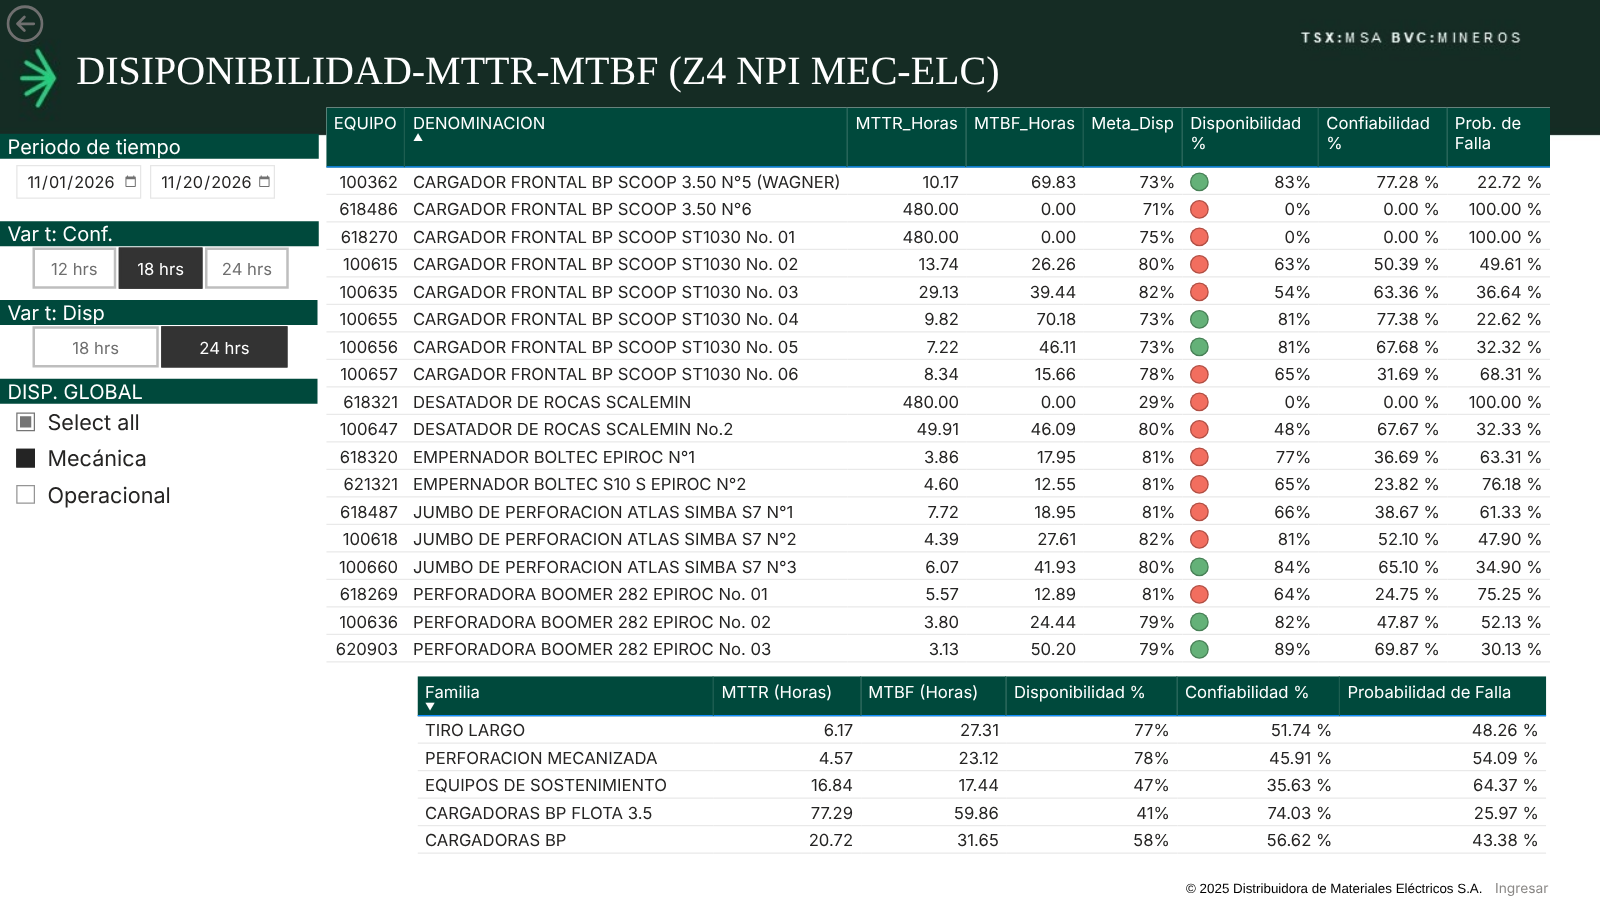
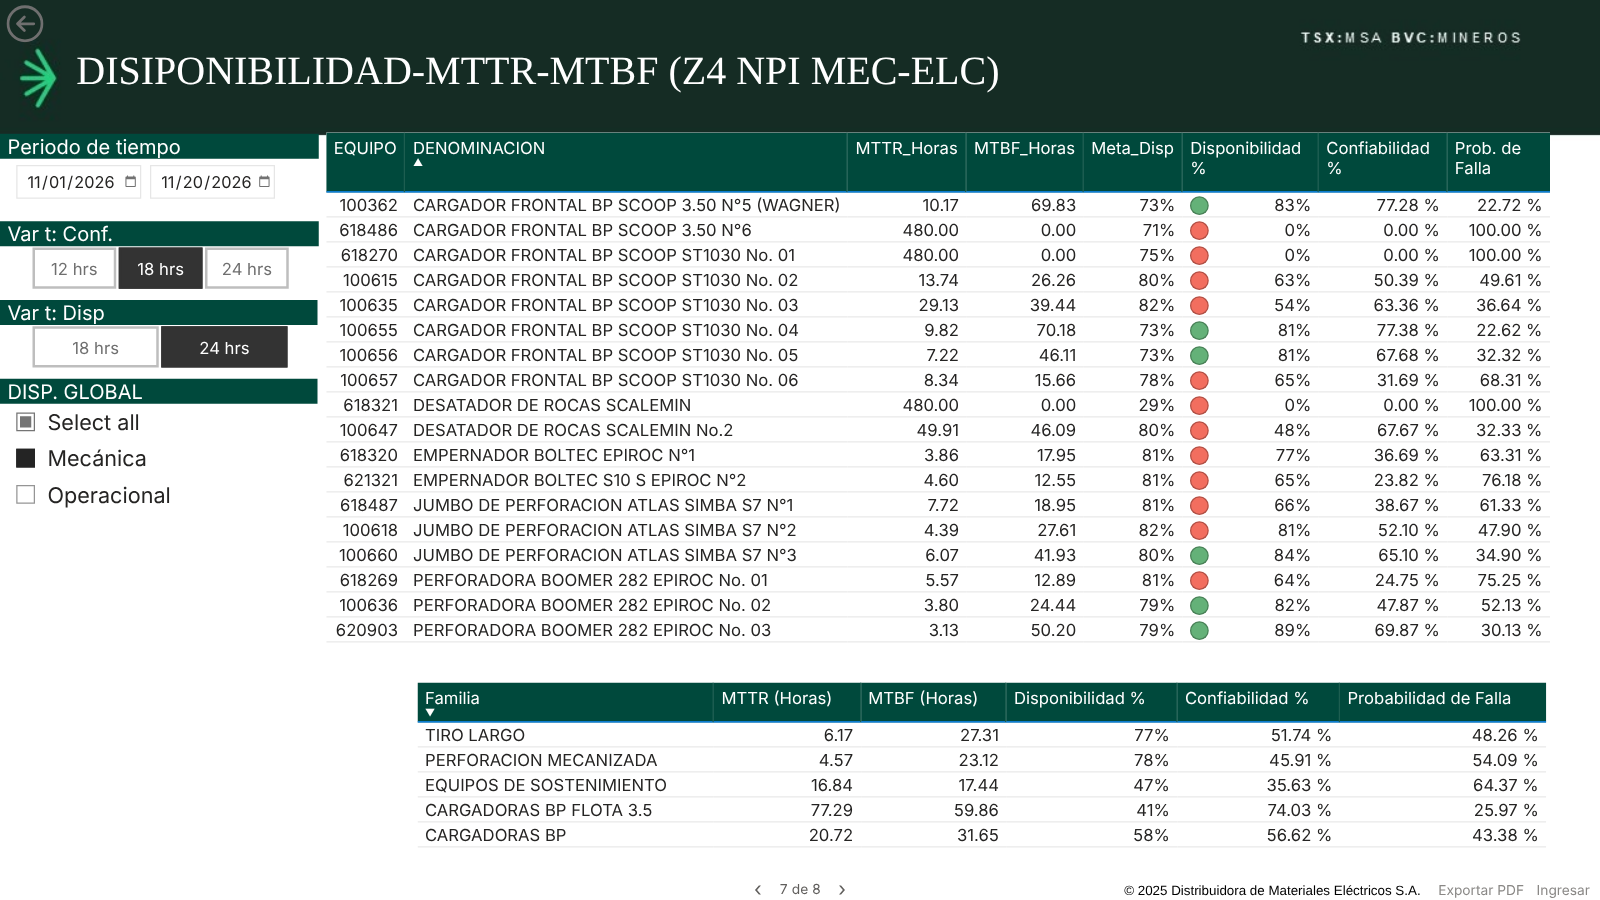
Nombres cortos de equipo en gráficos y tablas de paros, navegador entre páginas y PDF sin barras de desplazamiento
Claude-Session: https://claude.ai/code/session_01S28EfKDVFyr1ZrtpkDQrVX

diff --git a/src/components/NavegadorPaginas.tsx b/src/components/NavegadorPaginas.tsx
@@ -1,0 +1,84 @@
+// Navegador de páginas como el de Power BI: "‹  2 de 8  ›". Navega con react-router (sin recargar), así
+// los filtros compartidos se conservan. Con las flechas del teclado también se cambia de página, salvo
+// cuando el foco está en un campo de texto, fecha o lista.
+
+import { useContext, useEffect } from "react";
+import { useLocation, useNavigate } from "react-router-dom";
+import { CtxForzarLienzo, posicion, useModoPagina } from "./LienzoPbi";
+import { indicePagina, ORDEN_PAGINAS } from "../pages/ordenPaginas";
+import type { Rect } from "../pages/disenos";
+
+interface Props {
+  /** Caja en el lienzo: centrada en la página, a la altura del pie (y = arriba, h = alto). */
+  y?: number;
+  h?: number;
+  /** Texto claro, para fondos oscuros (Portada). */
+  claro?: boolean;
+  /** Fuerza el modo lienzo cuando la página no usa el proveedor de modo (la Portada). */
+  enLienzo?: boolean;
+}
+
+const ANCHO_LIENZO = 1280;
+const ANCHO_NAV = 160;
+
+function esCampoEditable(el: EventTarget | null): boolean {
+  if (!(el instanceof HTMLElement)) return false;
+  return el.isContentEditable || ["INPUT", "TEXTAREA", "SELECT"].includes(el.tagName);
+}
+
+export default function NavegadorPaginas({ y = 674, h = 16, claro, enLienzo }: Props) {
+  const modo = useModoPagina();
+  const lienzo = enLienzo ?? modo === "lienzo";
+  const forzado = useContext(CtxForzarLienzo); // exportación a PDF: oculto por CSS y sin teclado
+  const { pathname } = useLocation();
+  const navigate = useNavigate();
+  const i = indicePagina(pathname);
+  const anterior = i > 0 ? ORDEN_PAGINAS[i - 1] : null;
+  const siguiente = i >= 0 && i < ORDEN_PAGINAS.length - 1 ? ORDEN_PAGINAS[i + 1] : null;
+
+  useEffect(() => {
+    if (forzado) return;
+    const alTeclear = (e: KeyboardEvent) => {
+      if (e.defaultPrevented || e.altKey || e.ctrlKey || e.metaKey || e.shiftKey) return;
+      if (esCampoEditable(e.target)) return;
+      const destino = e.key === "ArrowLeft" ? anterior : e.key === "ArrowRight" ? siguiente : null;
+      if (!destino) return;
+      e.preventDefault();
+      navigate(destino.ruta);
+    };
+    window.addEventListener("keydown", alTeclear);
+    return () => window.removeEventListener("keydown", alTeclear);
+  }, [forzado, anterior, siguiente, navigate]);
+
+  if (i < 0) return null;
+
+  const caja: Rect = { x: (ANCHO_LIENZO - ANCHO_NAV) / 2, y, w: ANCHO_NAV, h };
+  const clases = ["nav-paginas", lienzo ? "lienzo-nav" : "", claro ? "nav-paginas-claro" : ""].filter(Boolean).join(" ");
+  return (
+    <nav className={clases} aria-label="Navegador de páginas" style={lienzo ? posicion(caja) : undefined}>
+      <button
+        type="button"
+        className="nav-paginas-boton"
+        aria-label="Página anterior"
+        title={anterior ? anterior.titulo : undefined}
+        disabled={!anterior}
+        onClick={() => anterior && navigate(anterior.ruta)}
+      >
+        ‹
+      </button>
+      <span className="nav-paginas-texto" aria-live="polite">
+        {i + 1} de {ORDEN_PAGINAS.length}
+      </span>
+      <button
+        type="button"
+        className="nav-paginas-boton"
+        aria-label="Página siguiente"
+        title={siguiente ? siguiente.titulo : undefined}
+        disabled={!siguiente}
+        onClick={() => siguiente && navigate(siguiente.ruta)}
+      >
+        ›
+      </button>
+    </nav>
+  );
+}

diff --git a/src/components/lienzo.css b/src/components/lienzo.css
@@ -209,11 +209,12 @@
 .lienzo .tabla-pbi th:last-child { border-right: 0; }
 .lienzo .tabla-resumen td:nth-child(2) { white-space: nowrap; }
 /* Tabla de paros: anchos fijos que suman el ancho de la caja (1268 px), así no hay barra horizontal.
-   Equipo y Descripción parten en dos líneas cuando no caben; Hrs Paro Ventana tiene ancho para
-   que su título quede en dos líneas ("Hrs Paro" / "Ventana"). */
+   Equipo va en una sola línea: 192 px = nombre corto más largo ("SCOOP 3.50 N°5 (WAGNER)", 178.2 px a
+   13.33px) + 12 px de relleno. Descripción toma el resto y parte en dos líneas cuando no cabe; Hrs Paro
+   Ventana tiene ancho para que su título quede en dos líneas ("Hrs Paro" / "Ventana"). */
 .lienzo .tabla-paros table { table-layout: fixed; width: 100%; }
 .lienzo .tabla-paros th:nth-child(1) { width: 62px; }
-.lienzo .tabla-paros th:nth-child(2) { width: 320px; }
+.lienzo .tabla-paros th:nth-child(2) { width: 192px; }
 .lienzo .tabla-paros th:nth-child(3) { width: 88px; }
 .lienzo .tabla-paros th:nth-child(4) { width: auto; }
 .lienzo .tabla-paros th:nth-child(5) { width: 164px; }
@@ -221,7 +222,7 @@
 .lienzo .tabla-paros th:nth-child(7) { width: 78px; }
 .lienzo .tabla-paros th:nth-child(8) { width: 104px; }
 .lienzo .tabla-paros th:nth-child(9) { width: 108px; }
-.lienzo .tabla-paros td:nth-child(1), .lienzo .tabla-paros td:nth-child(3),
+.lienzo .tabla-paros td:nth-child(1), .lienzo .tabla-paros td:nth-child(2), .lienzo .tabla-paros td:nth-child(3),
 .lienzo .tabla-paros td:nth-child(5), .lienzo .tabla-paros td:nth-child(6),
 .lienzo .tabla-paros td:nth-child(7), .lienzo .tabla-paros td:nth-child(8),
 .lienzo .tabla-paros td:nth-child(9) { white-space: nowrap; }
@@ -320,4 +321,15 @@
 .exportando-pdf .lienzo-volver,
 .exportando-pdf .guardado-periodo,
 .exportando-pdf .lienzo-enlaces,
+.exportando-pdf .nav-paginas,
 .exportando-pdf .portada-enlaces { display: none !important; }
+/* En el PDF las tablas no dibujan barras de desplazamiento: salen las filas que caben en su caja. */
+.exportando-pdf .tabla-pbi,
+.exportando-pdf .paneles-rejilla { overflow: hidden !important; }
+
+/* ---------- Navegador de páginas ("‹  2 de 8  ›") ---------- */
+/* Centrado en el lienzo, en la franja del pie (el texto y los enlaces del pie van pegados a la derecha). */
+.lienzo .lienzo-nav { position: absolute; justify-content: center; font-family: var(--pbi-fuente); font-size: 11px; line-height: 16px; }
+.lienzo-nav .nav-paginas-boton { font-size: 16px; }
+.lienzo .nav-paginas-claro { color: rgba(255, 255, 255, 0.55); }
+.lienzo .nav-paginas-claro .nav-paginas-boton:not(:disabled):hover { color: #fff; }

diff --git a/src/pages/PaginaFamilia.tsx b/src/pages/PaginaFamilia.tsx
@@ -16,6 +16,7 @@ import type { Contexto, HorasDisp } from "../medidas/contexto";
 import type { Modelo } from "../medidas/modelo";
 import { graficoFamilia, tablaParos, type FilaParo } from "../medidas/visuales";
 import type { DisenoFamilia } from "./disenos";
+import { nombreCorto } from "./nombresCortos";
 import { OPCIONES_DISP, OPCIONES_H_DISP } from "./opciones";
 
 const TITULO_PAGINA = "DISPONIBILIDADES";
@@ -33,7 +34,7 @@ interface Props {
 
 const COLUMNAS: ColumnaPbi<FilaParo>[] = [
   { id: "sap", titulo: "Sap", valor: (f) => f.sap, alinear: "der" },
-  { id: "equipo", titulo: "Equipo", valor: (f) => f.equipo },
+  { id: "equipo", titulo: "Equipo", valor: (f) => nombreCorto(f.sap, f.equipo) },
   { id: "aviso", titulo: "Aviso", valor: (f) => f.aviso, alinear: "der" },
   { id: "descripcion", titulo: "Descripción del Paro", valor: (f) => f.descripcion },
   { id: "inicio", titulo: "_F/H Inicio", valor: (f) => f.inicio, formato: "fechaHora" },
@@ -62,7 +63,7 @@ function Contenido({ modelo, titulo, equiposGrafico, equiposTabla, diseno }: Pro
 
   const equipos = useMemo<EquipoDisp[]>(
     () =>
-      filasGrafico.map((r) => ({ id: String(r.id), nombre: r.descripcion, disp: r.dispDin, meta: r.metaDisp, color: r.color })),
+      filasGrafico.map((r) => ({ id: String(r.id), nombre: nombreCorto(r.id, r.descripcion), disp: r.dispDin, meta: r.metaDisp, color: r.color })),
     [filasGrafico],
   );
 

diff --git a/src/components/PaginaPbi.tsx b/src/components/PaginaPbi.tsx
@@ -5,6 +5,7 @@ import type { ReactNode } from "react";
 import { Link } from "react-router-dom";
 import DisposicionPbi from "./DisposicionPbi";
 import Layout, { EnlacesSesion, TEXTO_PIE } from "./Layout";
+import NavegadorPaginas from "./NavegadorPaginas";
 import LienzoPbi, { ProveedorLienzo, posicion, useEstadoLienzo } from "./LienzoPbi";
 import { BASE, type Rect } from "../pages/disenos";
 import plantilla from "../assets/plantilla_cabecera.jpg";
@@ -40,7 +41,7 @@ export default function PaginaPbi({ titulo, rectTitulo = BASE.titulo, rectPie = 
   if (estado.modo === "apilado") {
     return (
       <ProveedorLienzo value={estado}>
-        <Layout titulo={titulo} amplio exportarPdf>
+        <Layout titulo={titulo} amplio exportarPdf navegador>
           <DisposicionPbi lateral={lateral} anchoLateral={anchoLateral}>
             {children}
           </DisposicionPbi>
@@ -58,6 +59,8 @@ export default function PaginaPbi({ titulo, rectTitulo = BASE.titulo, rectPie = 
         </h1>
         {lateral}
         {children}
+        {/* Navegador de páginas: centrado, a la altura del pie (que va pegado a la derecha). */}
+        <NavegadorPaginas y={rectPie.y} h={rectPie.h} />
         {/* Pie alineado al borde derecho del texto original; los enlaces de sesión siguen a su derecha. */}
         <div className="lienzo-pie" style={posicion(rectPie)}>
           <p>{TEXTO_PIE}</p>

diff --git a/src/components/Layout.tsx b/src/components/Layout.tsx
@@ -2,6 +2,7 @@ import type { ReactNode } from "react";
 import { Link } from "react-router-dom";
 import { useAuth } from "../auth";
 import BotonExportarPdf from "./ExportarPdf";
+import NavegadorPaginas from "./NavegadorPaginas";
 
 interface Props {
   // Sin título no hay banda superior (así se muestra la Portada).
@@ -10,6 +11,8 @@ interface Props {
   amplio?: boolean;
   /** Muestra el botón "Exportar PDF" en el pie (solo dentro de los proveedores del tablero). */
   exportarPdf?: boolean;
+  /** Muestra el navegador de páginas ("‹ 2 de 8 ›") en el pie. */
+  navegador?: boolean;
   children: ReactNode;
 }
 
@@ -35,7 +38,7 @@ export function EnlacesSesion({ className = "pie-enlaces", exportarPdf }: { clas
   );
 }
 
-export default function Layout({ titulo, amplio, exportarPdf, children }: Props) {
+export default function Layout({ titulo, amplio, exportarPdf, navegador, children }: Props) {
   return (
     <div className="pagina">
       {titulo !== undefined && (
@@ -54,6 +57,7 @@ export default function Layout({ titulo, amplio, exportarPdf, children }: Props)
 
       <footer className="pie">
         <span className="pie-texto">{TEXTO_PIE}</span>
+        {navegador && <NavegadorPaginas />}
         <EnlacesSesion exportarPdf={exportarPdf} />
       </footer>
     </div>

diff --git a/src/pages/Portada.tsx b/src/pages/Portada.tsx
@@ -1,6 +1,7 @@
 import { Link } from "react-router-dom";
 import fondo from "../assets/portada_mineros.png";
 import Layout, { EnlacesSesion } from "../components/Layout";
+import NavegadorPaginas from "../components/NavegadorPaginas";
 import LienzoPbi, { posicion, useEstadoLienzo } from "../components/LienzoPbi";
 import { DISENO_PORTADA as D } from "./disenos";
 import "./portada.css";
@@ -85,13 +86,15 @@ export default function Portada({ fechaMin, fechaMax }: Props) {
           ))}
         </nav>
         <p className="portada-fecha" style={posicion(D.fecha)}>{fecha}</p>
+        {/* A la altura del texto de la fecha (centrado verticalmente en su caja). */}
+        <NavegadorPaginas y={D.fecha.y + D.fecha.h / 2 - 8} h={16} claro enLienzo />
         <EnlacesSesion className="portada-enlaces" exportarPdf />
       </LienzoPbi>
     );
   }
 
   return (
-    <Layout exportarPdf>
+    <Layout exportarPdf navegador>
       <section className="portada" aria-labelledby="portada-titulo">
         <img className="portada-fondo" src={fondo} alt="" />
 

diff --git a/src/pages/ordenPaginas.ts b/src/pages/ordenPaginas.ts
@@ -1,0 +1,24 @@
+// Orden de las 8 páginas del tablero (el mismo del reporte de Power BI). Lo usa el navegador de páginas
+// ("‹  2 de 8  ›"). Las rutas de las páginas de familia coinciden con PAGINAS_FAMILIA (paginasFamilia.ts).
+
+export interface PaginaOrden {
+  ruta: string;
+  titulo: string;
+}
+
+export const ORDEN_PAGINAS: readonly PaginaOrden[] = [
+  { ruta: "/", titulo: "Portada" },
+  { ruta: "/simba", titulo: "Disp Simba" },
+  { ruta: "/jumbo", titulo: "Disp Jumbo" },
+  { ruta: "/sostenimiento", titulo: "Disp Sostenimiento" },
+  { ruta: "/st35", titulo: "Disp Scootram ST3.5" },
+  { ruta: "/st1030", titulo: "Disp Scootram ST1030" },
+  { ruta: "/resumen", titulo: "Resumen Disp." },
+  { ruta: "/mensual", titulo: "Disp Mensual" },
+];
+
+/** Posición (base 0) de una ruta en el orden de páginas, o -1 si no es una página del tablero. */
+export function indicePagina(ruta: string): number {
+  const limpia = ruta.length > 1 ? ruta.replace(/\/+$/, "") : ruta;
+  return ORDEN_PAGINAS.findIndex((p) => p.ruta === limpia);
+}

diff --git a/src/pages/nombresCortos.ts b/src/pages/nombresCortos.ts
@@ -1,0 +1,28 @@
+// Nombres cortos de los equipos para el gráfico, la tabla de paros y Disp Mensual
+// (Resumen Disp. conserva el nombre completo). Se indexan por id_equipo.
+
+export const NOMBRES_CORTOS: Readonly<Record<number, string>> = {
+  618487: "SIMBA S7 N°1",
+  100618: "SIMBA S7 N°2",
+  100660: "SIMBA S7 N°3",
+  618269: "BOOMER 282 No. 01",
+  100636: "BOOMER 282 No. 02",
+  620903: "BOOMER 282 No. 03",
+  618321: "SCALEMIN",
+  100647: "SCALEMIN No.2",
+  618320: "BOLTEC N°1",
+  621321: "BOLTEC S10 N°2",
+  100362: "SCOOP 3.50 N°5 (WAGNER)",
+  618486: "SCOOP 3.50 N°6",
+  618270: "ST1030 No. 01",
+  100615: "ST1030 No. 02",
+  100635: "ST1030 No. 03",
+  100655: "ST1030 No. 04",
+  100656: "ST1030 No. 05",
+  100657: "ST1030 No. 06",
+};
+
+/** Nombre corto del equipo o, si el id no está en el mapa, el nombre completo. */
+export function nombreCorto(id: number | string, nombreCompleto: string): string {
+  return NOMBRES_CORTOS[Number(id)] ?? nombreCompleto;
+}

diff --git a/src/styles.css b/src/styles.css
@@ -180,3 +180,28 @@ a { color: var(--verde-tabla); }
   }
   .contenido { padding: 20px 16px; }
 }
+
+/* Navegador de páginas ("‹  2 de 8  ›"), discreto. En el lienzo se posiciona desde lienzo.css. */
+.nav-paginas {
+  display: flex;
+  align-items: center;
+  gap: 6px;
+  color: #605e5c;
+  font-size: 13px;
+  white-space: nowrap;
+}
+.nav-paginas-texto { min-width: 3.4em; text-align: center; font-variant-numeric: tabular-nums; }
+.nav-paginas-boton {
+  background: none;
+  border: 0;
+  margin: 0;
+  padding: 0 6px;
+  font: inherit;
+  font-size: 20px;
+  line-height: 1;
+  color: inherit;
+  cursor: pointer;
+}
+.nav-paginas-boton:not(:disabled):hover { color: #252423; }
+.nav-paginas-boton:focus-visible { outline: 2px solid #3ddc84; outline-offset: 1px; border-radius: 3px; }
+.nav-paginas-boton:disabled { opacity: 0.35; cursor: default; }

diff --git a/src/pages/Mensual.tsx b/src/pages/Mensual.tsx
@@ -14,6 +14,7 @@ import { EQUIPOS_RESUMEN, type Contexto, type HorasDisp } from "../medidas/conte
 import type { Modelo } from "../medidas/modelo";
 import { panelesSemanales } from "../medidas/visuales";
 import { DISENO_MENSUAL as D } from "./disenos";
+import { nombreCorto } from "./nombresCortos";
 import { OPCIONES_DISP, OPCIONES_H_DISP } from "./opciones";
 
 const TITULO_PAGINA = "DISPONIBILIDADES";
@@ -45,7 +46,7 @@ function Contenido({ modelo }: { modelo: Modelo }) {
     const ctx: Contexto = { ...resto, equipos };
     return panelesSemanales(modelo, ctx).map((p) => ({
       id: String(p.id),
-      titulo: p.descripcion,
+      titulo: nombreCorto(p.id, p.descripcion),
       semanas: p.puntos.map((x) => x.etiqueta),
       disp: p.puntos.map((x) => x.dispDin),
       meta: p.puntos.map((x) => x.metaDisp),

diff --git a/tests/nombresCortos.test.ts b/tests/nombresCortos.test.ts
@@ -1,0 +1,17 @@
+import { describe, expect, it } from "vitest";
+import { nombreCorto, NOMBRES_CORTOS } from "../src/pages/nombresCortos";
+
+describe("nombreCorto", () => {
+  it("devuelve el nombre corto de un id conocido", () => {
+    expect(nombreCorto(618487, "JUMBO DE PERFORACION ATLAS SIMBA S7 N°1")).toBe("SIMBA S7 N°1");
+    expect(nombreCorto("100362", "CARGADOR FRONTAL BP SCOOP 3.50 N°5 (WAGNER)")).toBe("SCOOP 3.50 N°5 (WAGNER)");
+  });
+
+  it("devuelve el nombre completo si el id no está en el mapa", () => {
+    expect(nombreCorto(999999, "EQUIPO NUEVO")).toBe("EQUIPO NUEVO");
+  });
+
+  it("cubre los 18 equipos", () => {
+    expect(Object.keys(NOMBRES_CORTOS)).toHaveLength(18);
+  });
+});

diff --git a/src/components/GraficoDispFamilia.tsx b/src/components/GraficoDispFamilia.tsx
@@ -60,7 +60,8 @@ export default function GraficoDispFamilia({ titulo, equipos, seleccionado, onCl
       etiquetaEje = { width: anchoEtiqueta, overflow: "break", fontSize: 12, lineHeight: 15, margin: 12, color: COLORES.textoEje };
       tope = maximo * LIENZO.holgura;
     } else {
-      const lineas = equipos.length > 4 || angosto ? 3 : 2;
+      // Con nombres cortos, en un gráfico ancho cada nombre cabe en una línea; solo se parte si es angosto.
+      const lineas = !angosto ? 1 : equipos.length > 4 ? 3 : 2;
       grid = { left: 8, right: 8, top: 36, bottom: 8, containLabel: true };
       etiquetaEje = {
         color: COLORES.textoEje,
